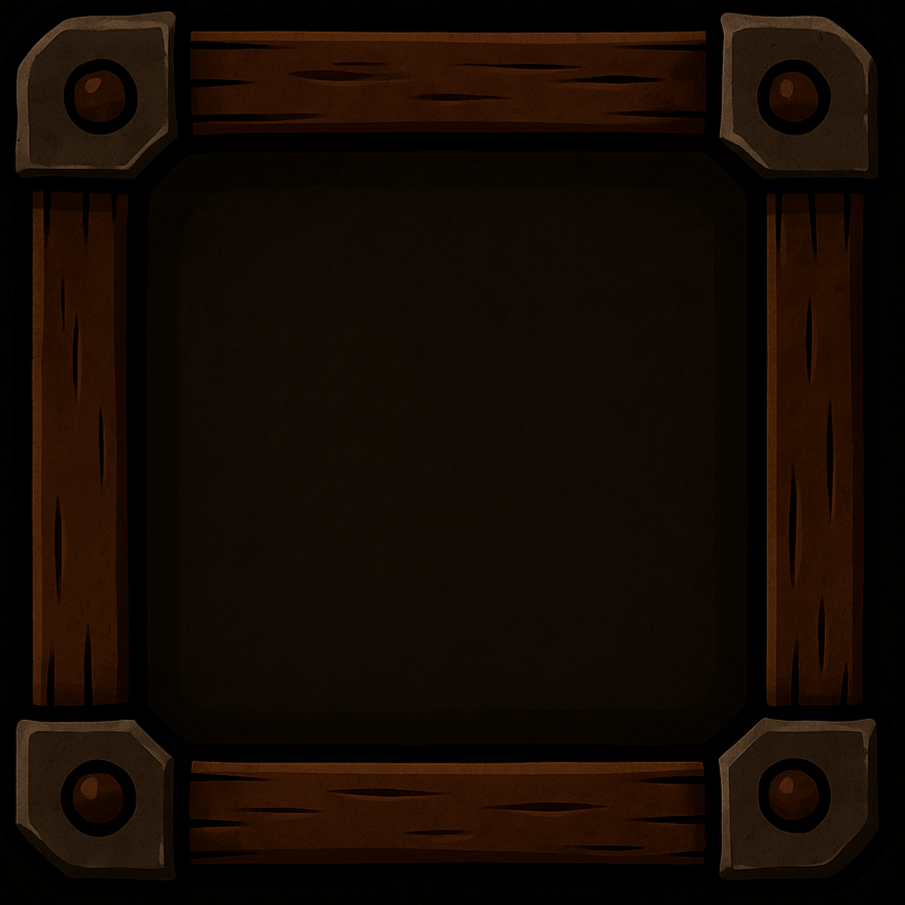
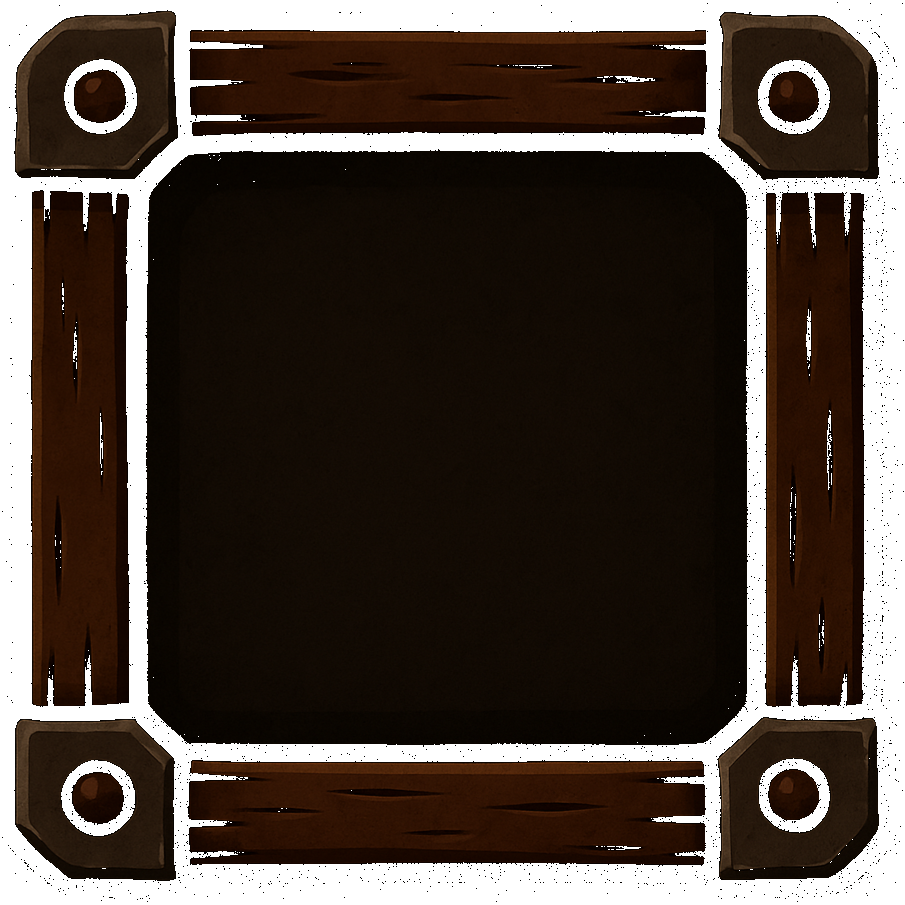
Fix opaque matte on item sprite

diff --git a/test.py b/test.py
@@ -30,6 +30,7 @@ from pathlib import Path
 import unittest
 
 import mcp
+from PIL import Image
 
 REPO_ROOT = Path(__file__).resolve().parent
 TEST_OUTPUT_DIR = REPO_ROOT / "test"
@@ -3628,6 +3629,44 @@ class GameTest(unittest.TestCase):
                 if not candidate.exists() and not local_candidate.exists():
                     missing.append(f"{path}:{key}:{val}")
         return missing == [], json.dumps(missing)
+
+    def test_item_sprite_border_palette_is_transparent(self):
+        image_path = REPO_ROOT / "res" / "images" / "item.png"
+        with Image.open(image_path) as raw_image:
+            image = raw_image.convert("RGBA")
+
+        width, height = image.size
+        border_rgbs = set()
+        for x in range(width):
+            border_rgbs.add(image.getpixel((x, 0))[:3])
+            border_rgbs.add(image.getpixel((x, height - 1))[:3])
+        for y in range(1, height - 1):
+            border_rgbs.add(image.getpixel((0, y))[:3])
+            border_rgbs.add(image.getpixel((width - 1, y))[:3])
+
+        transparent_corners = {
+            image.getpixel((0, 0))[3],
+            image.getpixel((0, height - 1))[3],
+            image.getpixel((width - 1, 0))[3],
+            image.getpixel((width - 1, height - 1))[3],
+        }
+        self.assertEqual({0}, transparent_corners)
+
+        opaque_border_palette_pixels = []
+        for y in range(height):
+            for x in range(width):
+                r, g, b, a = image.getpixel((x, y))
+                if a > 0 and (r, g, b) in border_rgbs:
+                    opaque_border_palette_pixels.append((x, y, (r, g, b, a)))
+                    if len(opaque_border_palette_pixels) >= 10:
+                        break
+            if len(opaque_border_palette_pixels) >= 10:
+                break
+
+        self.assertFalse(
+            opaque_border_palette_pixels,
+            f"Opaque matte pixels remain in {image_path}: {opaque_border_palette_pixels}",
+        )
 
     def _collect_resource_paths(self, obj):
         if isinstance(obj, dict):

diff --git a/TODO_WORKLOG.md b/TODO_WORKLOG.md
@@ -299,3 +299,22 @@
   - `ctest --test-dir cmake-build-release --output-on-failure -R for_unit_tests` -> `1/1 Test #1: for_unit_tests ... Passed`
   - `python3 test.py` -> `/tmp/pr189-python.log` ended with `Ran 81 tests in 138.273s` and `OK`
 - Blockers if unresolved: None. This batch only updates documentation and worklog bookkeeping, so `./scripts/run_coverage.sh` was not required by the repository rules.
+
+## Batch 21
+- Location: `res/images/item.png`, `test.py`
+- Original TODO or summary: A map actor on grass could render with opaque black matte islands because the generic item sprite still shipped with an opaque border palette instead of real transparency.
+- Status: fixed
+- What was changed: Audited the render path and confirmed the screenshot-class artifact was not coming from `CMapGraphicsObject`, `CAnimation`, or the footprint overlay. Then converted `res/images/item.png` so every RGB color present on the outer border becomes transparent everywhere in that PNG, and added a focused regression test that asserts the item sprite's border palette is transparent and no opaque matte pixels remain.
+- Why the change is correct: `CTextureUtil::calculateAlpha(...)` only synthesizes transparency from the PNG data it receives. The verified offending sprite was `images/item`, used by the `preciousAmulet` `CItem` definition in `res/maps/nouraajd/config.json`; the raw asset had no alpha, all four corners were opaque `(2, 2, 0, 255)`, and `180666` pixels matching the border matte palette were still opaque. After the asset fix, the same PNG has transparent corners and zero opaque pixels using that border palette, so the artifact is removed without changing global masking behavior for unrelated sprites.
+- Validation performed:
+  - source verification of `AGENTS.md`, `README.md`, `docs/testing.md`, `src/gui/CTextureCache.cpp`, `src/gui/CTextureCache.h`, `src/gui/CAnimation.cpp`, `src/gui/CAnimation.h`, `src/gui/object/CMapGraphicsObject.cpp`, `src/gui/object/CMapGraphicsObject.h`, `src/gui/object/CGameGraphicsObject.cpp`, `src/gui/object/CGameGraphicsObject.h`, `res/config/graphics.json`, and `TODO_WORKLOG.md`
+  - GitHub `main` verification of `src/gui/CTextureCache.cpp`, `src/gui/CTextureCache.h`, `src/gui/CAnimation.cpp`, `src/gui/object/CMapGraphicsObject.cpp`, `src/gui/object/CGameGraphicsObject.cpp`, `res/config/graphics.json`, and `TODO_WORKLOG.md` before editing
+  - focused asset audit comparing `/home/andrz/git/fall-of-nouraajd/res/images/item.png` vs `/tmp/fon-black-render-artifacts/res/images/item.png` -> original corners were opaque and had `180666` opaque border-palette pixels; fixed asset corners are transparent and have `0` opaque border-palette pixels
+  - `black -l 120 test.py` -> `1 file left unchanged`
+  - `python3 -m unittest test.GameTest.test_item_sprite_border_palette_is_transparent` -> `Ran 1 test in 0.298s`, `OK`
+  - `./configure.sh` -> configured `cmake-build-debug` and `cmake-build-release`; printed existing `sudo` and `externally-managed-environment` warnings but completed CMake generation successfully
+  - `CCACHE_DIR=/tmp/fon-ccache cmake --build cmake-build-release --target _game for_unit_tests -j$(nproc)` -> built `_game` and `for_unit_tests` successfully after redirecting `ccache` to a writable directory
+  - `ctest --test-dir cmake-build-release --output-on-failure -R for_unit_tests` -> `1/1 Test #1: for_unit_tests ... Passed`
+  - `python3 test.py` -> `Ran 82 tests in 135.510s`, `OK`
+  - `CCACHE_DIR=/tmp/fon-ccache ./scripts/run_coverage.sh` -> `Ran 82 tests in 234.993s`, `OK`, scoped line coverage `81.45% (2885/3542)`
+- Blockers if unresolved: None. The existing `CMakeLists.txt` already packages `res/images/item.png`, so no resource-rule update was needed.
